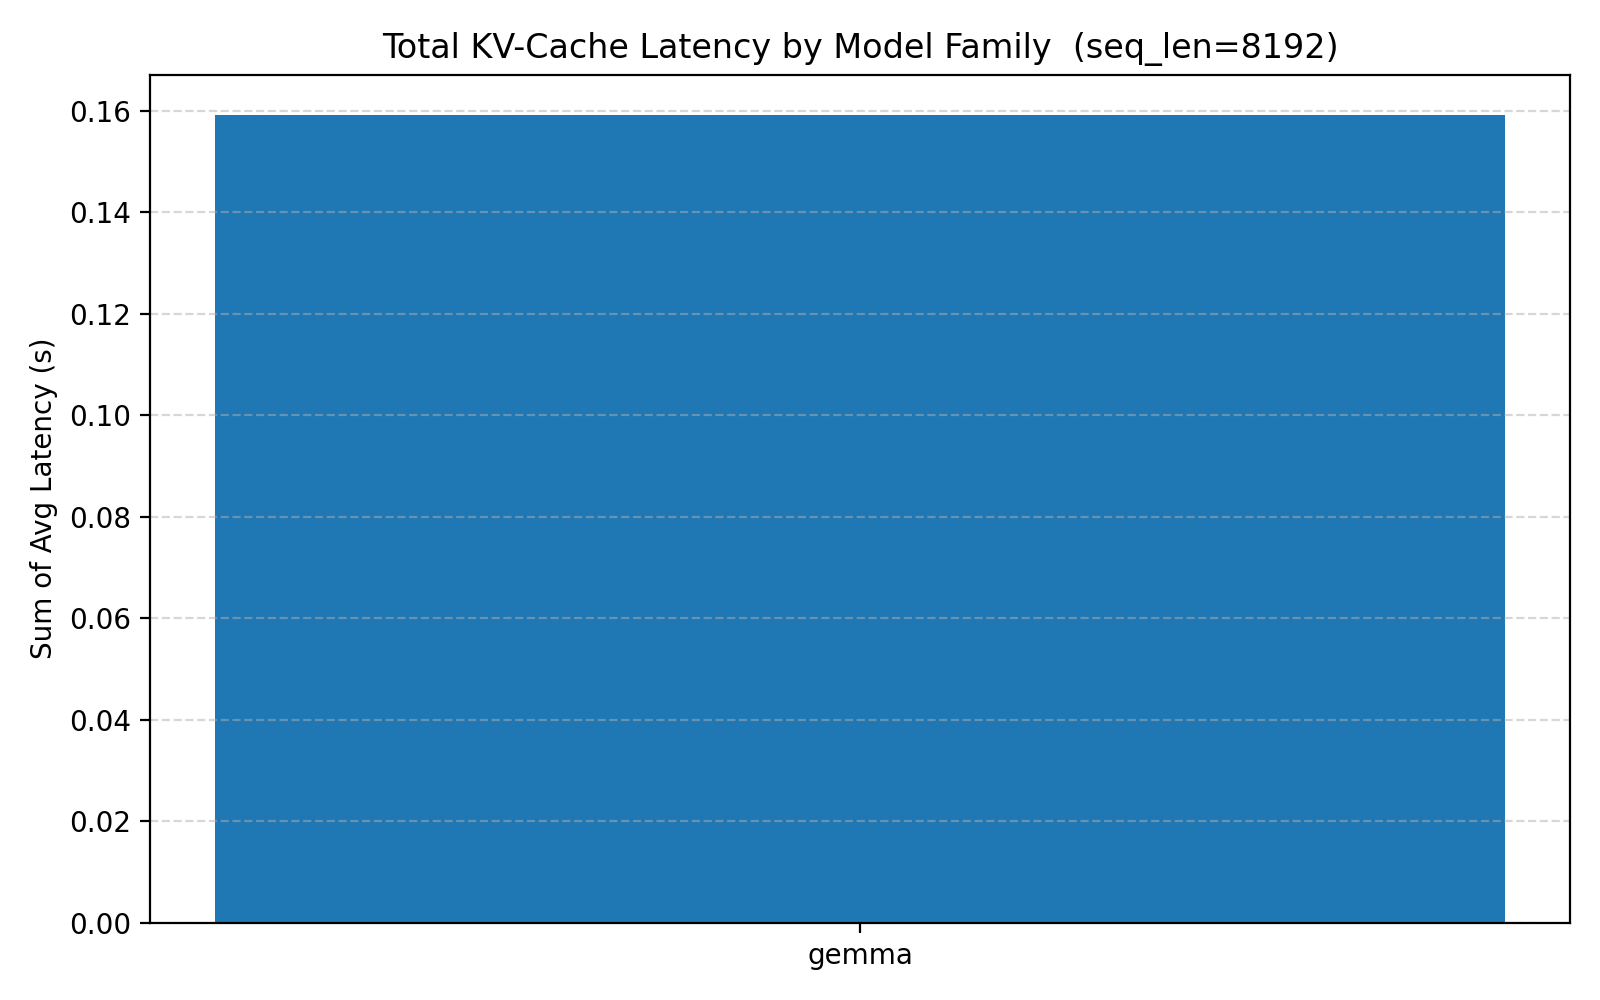
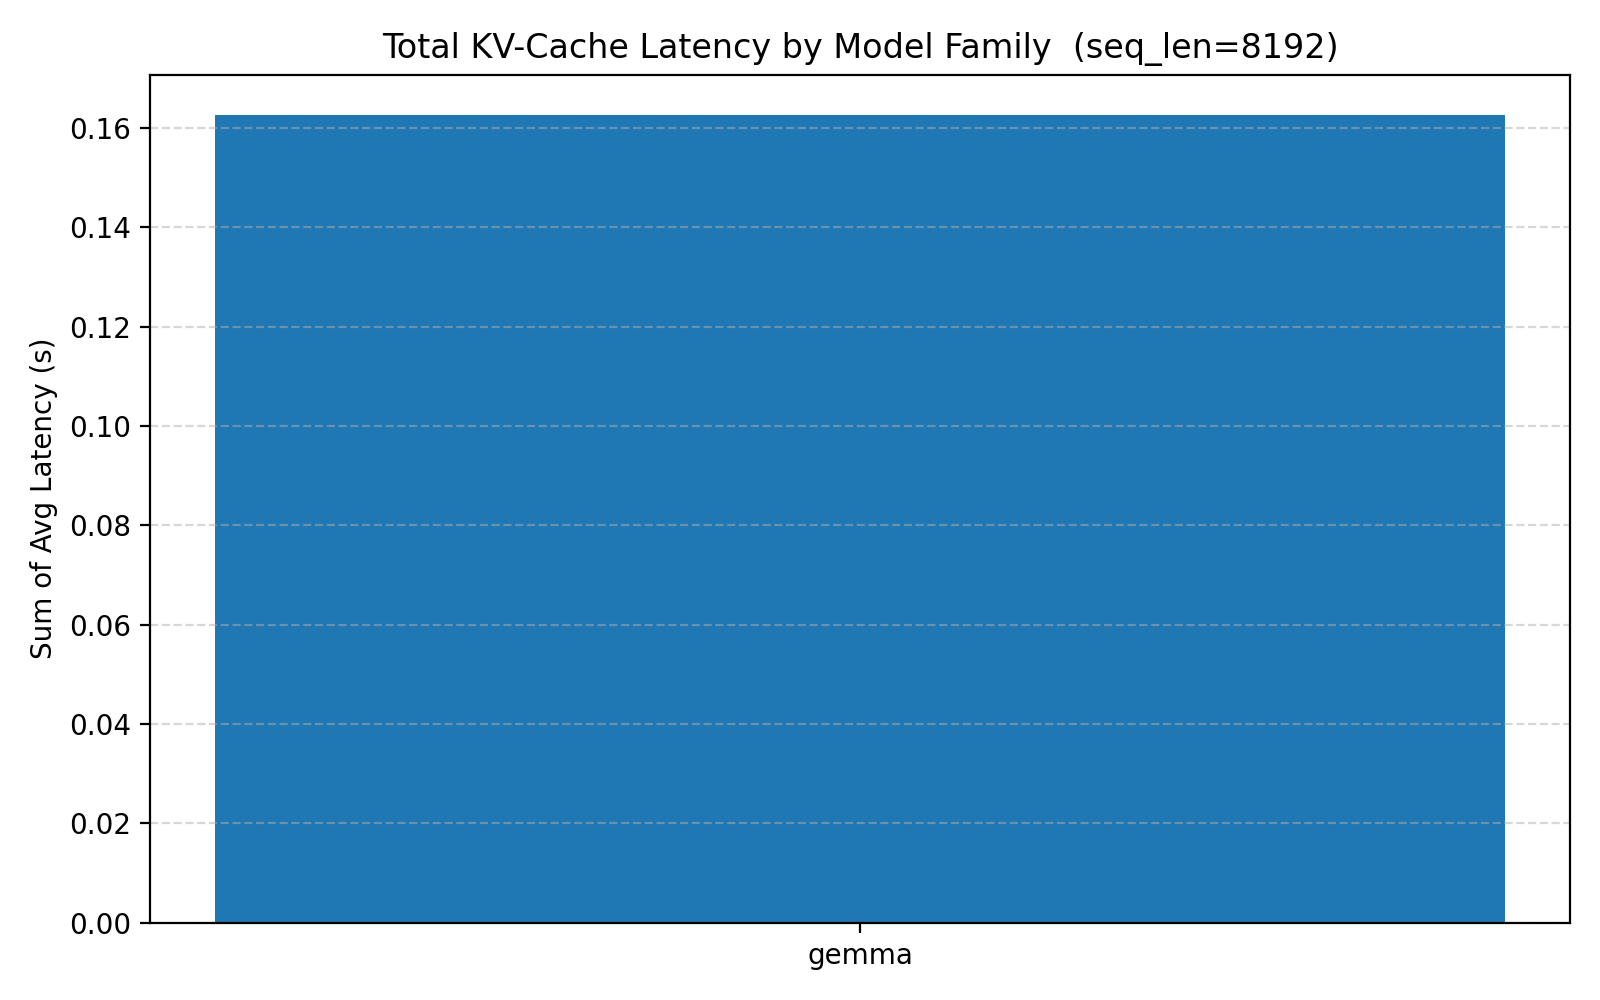
figures notebook

diff --git a/model_family/llm_kv.py b/model_family/llm_kv.py
@@ -100,8 +100,7 @@ MODEL_FAMILIES = {
 }
 
 # Flat list of every model type, with the canonical base-case first
-#ALL_MODEL_TYPES = ["gpt", "phi", "llama", "gemma", "opt"]
-ALL_MODEL_TYPES = [ "gemma"]
+ALL_MODEL_TYPES = ["gemma"]
 
 
 # ============================================================
@@ -163,10 +162,15 @@ class MultiHeadAttention(nn.Module):
 
         total_len = k.size(-2)
         if t > 1 or past_len > 0:
-            mask = torch.full((t, total_len), float("-inf"), device=x.device)
-            mask = torch.triu(mask, diagonal=1 + past_len)
+            # Build the mask once and cache it; only reallocate if shape changes.
+            cache_key = (t, total_len, past_len, x.device)
+            if not hasattr(self, "_mask_cache") or self._mask_cache_key != cache_key:
+                mask = torch.full((t, total_len), float("-inf"), device=x.device)
+                mask = torch.triu(mask, diagonal=1 + past_len)
+                self._mask_cache = mask
+                self._mask_cache_key = cache_key
             with LATENCY.measure("attn.apply_causal_mask"):
-                scores = scores + mask
+                scores = scores + self._mask_cache
 
         with LATENCY.measure("attn.softmax"):
             attn = F.softmax(scores, dim=-1)
